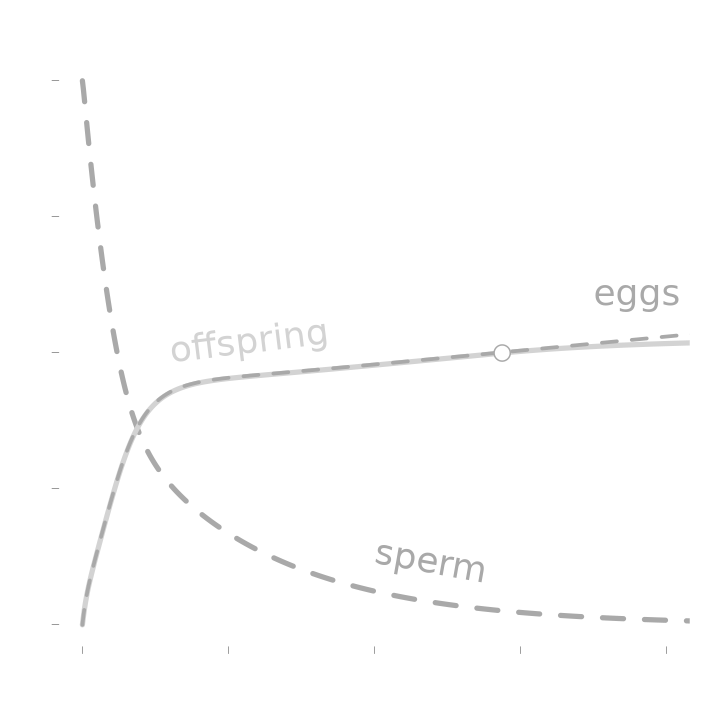
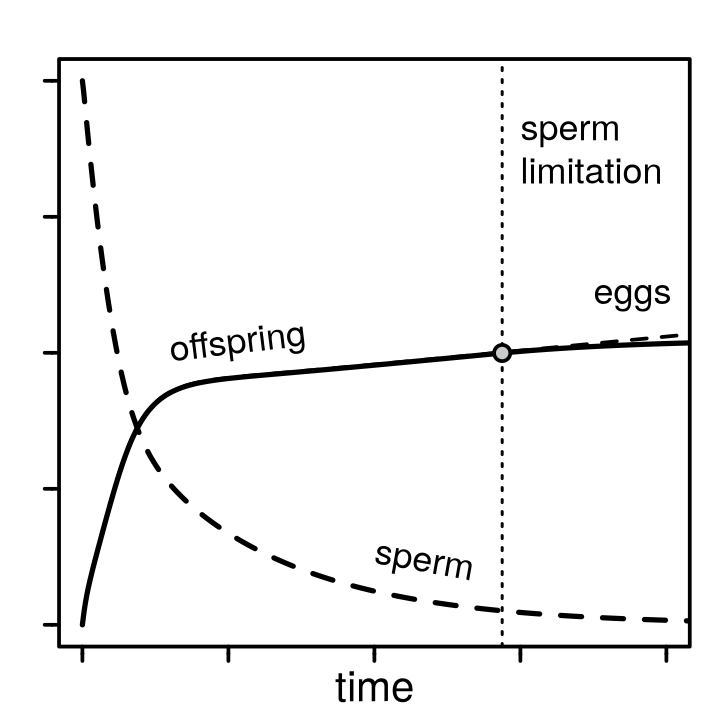
let there be light

diff --git a/ponderings/index.html b/ponderings/index.html
@@ -16,50 +16,50 @@
 <body>
   <br>
   <nav>
-    <a href="/">home</a> | <a href="/research/">research</a> | <a href="/publications/">publications</a> | <a href="/teaching/">teaching</a> | <a href="/ponderings/">ponderings</a>
+    <a class="nav" href="/">home</a> | <a class="nav" href="/research/">research</a> | <a class="nav" href="/publications/">publications</a> | <a class="nav" href="/teaching/">teaching</a> | <a class="nav" href="/ponderings/">ponderings</a>
   </nav><br>
   <h4><a href="/ponderings/">&lt;- Go back.</a></h4>
   <p class="c1">* * *</p>
-  <p><span class="c2"><strong><em>this is an unsolicited list of books I find good and/or useful, especially for people who like me like theory and evolution, and are trying to be scientists</em></strong>.</span></p>
+  <p><span class="c2"><em>this is an unsolicited list of books I find good and/or useful, especially for people who like me like theory and evolution, and are trying to be scientists</em>.</span></p>
   <p class="c1">* * *</p>
-  <h3 id="modelling-and-theory">Modelling and theory</h3>
+  <h3 id="modelling-and-theory">modelling and theory</h3>
   <p class="c1">* * *</p>
-  <h4 id="statistical-rethinking-by-richard-mcelreath-2020"><strong><em><a href="https://xcelab.net/rm/">Statistical Rethinking</a></em></strong> by Richard McElreath, 2020</h4>
+  <h4 id="statistical-rethinking-by-richard-mcelreath-2020"><em><a href="https://xcelab.net/rm/">Statistical Rethinking</a></em> by Richard McElreath, 2020</h4>
   <p>Bayesian methods used to be all the rage, but although well explained here, it’s not the point of the book. The point is, statistical tests are not black box tools to be applied using some decision tree. Science is complicated and our analysis should reflect as much of what we know as possible. If you want to understand what you are doing when you’re analyzing your data, this is a great book to go to. Especially if you are an early graduate student who still feels like they don’t understand statistics, this will give you background to engage with those models. And maybe tempt you to write your own. Oh, and there are <a href="https://www.youtube.com/watch?v=FdnMWdICdRs&amp;list=PLDcUM9US4XdPz-KxHM4XHt7uUVGWWVSus">free videos</a> connected to the course by the author.</p>
-  <h4 id="mathematical-models-of-social-evolution-by-richard-mcelreath-and-robert-boyd-2007"><strong><em><a href="https://press.uchicago.edu/ucp/books/book/chicago/M/bo4343149.html">Mathematical Models of Social Evolution</a></em></strong> by Richard McElreath and Robert Boyd, 2007</h4>
+  <h4 id="mathematical-models-of-social-evolution-by-richard-mcelreath-and-robert-boyd-2007"><em><a href="https://press.uchicago.edu/ucp/books/book/chicago/M/bo4343149.html">Mathematical Models of Social Evolution</a></em> by Richard McElreath and Robert Boyd, 2007</h4>
   <p>Modelling not just for social problems. But it helps if you’re interested in the topic. A nice general introduction to modelling evolution using social evolution as base. A little population genetics, a little game theory, quite a bit of evolution and a nice derivation of the Price equation. It has some typos, sometimes answers to questions are missing or the answers do not match. Needs to be read vigilantly. But for me, it was a tremendous boost of modelling confidence. It just needs a second edition.</p>
-  <h4 id="a-biologists-guide-to-mathematical-modeling-in-ecology-and-evolution-by-sarah-otto-and-troy-day-2007"><strong><em><a href="https://www.zoology.ubc.ca/biomath/">A Biologist’s Guide to Mathematical Modeling in Ecology and Evolution</a></em></strong> by Sarah Otto and Troy Day, 2007</h4>
+  <h4 id="a-biologists-guide-to-mathematical-modeling-in-ecology-and-evolution-by-sarah-otto-and-troy-day-2007"><em><a href="https://www.zoology.ubc.ca/biomath/">A Biologist’s Guide to Mathematical Modeling in Ecology and Evolution</a></em> by Sarah Otto and Troy Day, 2007</h4>
   <p>One of those books I was always recommended - and for good reason. It tells you how to construct the model - how to graph it, trace its logic before getting bogged down by equations. And presents several classic models before jumping into methods of analyzing various modelling strategies. It’s comprehensive and certainly useful. But, it’s big. It might be better seen as a reference, rather than something to read cover to cover. Especially if you just want to dabble in models.</p>
-  <h4 id="modelling-for-field-biologists-and-other-interesting-people-by-hanna-kokko-2007"><strong><em><a href="https://doi.org/10.1017/CBO9780511811388">Modelling for Field Biologists and Other Interesting People</a></em></strong> by Hanna Kokko, 2007</h4>
+  <h4 id="modelling-for-field-biologists-and-other-interesting-people-by-hanna-kokko-2007"><em><a href="https://doi.org/10.1017/CBO9780511811388">Modelling for Field Biologists and Other Interesting People</a></em> by Hanna Kokko, 2007</h4>
   <p>Hanna Kokko is both a well known theoretical biologist and a writer with a sense of humour. Each chapter is a question, followed by an approach that can be used to solve it. It reads nicely and stresses the most important part - we are trying to solve a biological problem here. It’s a great book not only for those theoretically skewed, but, as title suggests, also for those who spend some time in the sun. What you will get from this book is an important insight - “would a model help me clarify my problem”. And then you can try yourself to see what emerges. I don’t think it has been republished, but you can find second hand copies.</p>
   <p><em>Sidenote: 2007 seems to have been a good year for modelling textbooks</em></p>
-  <h4 id="evolutionary-genetics-maynard-smith-1998"><strong><em><a href="https://global.oup.com/academic/product/evolutionary-genetics-9780198502319?cc=fr&amp;lang=en&amp;">Evolutionary Genetics</a></em></strong> by John Maynard Smith, 1997</h4>
+  <h4 id="evolutionary-genetics-maynard-smith-1998"><em><a href="https://global.oup.com/academic/product/evolutionary-genetics-9780198502319?cc=fr&amp;lang=en&amp;">Evolutionary Genetics</a></em> by John Maynard Smith, 1997</h4>
   <p>I spend one summer reading this book, cover to cover. One, it's John Maynard Smith. Two, although it says "evolutionary genetics", it really feels like a set of lectures discussing evolutionary problems. Sometimes we use population genetics, sometimes game theory. Whatever is the way to tackle the problem of interest. Is it old? Yes. Is it a rewarding read that changed how I think, even in 2020s? Yes. And it can be found dirt cheap in second hand book stores.</p>
   <p class="c1">* * *</p>
-  <h3 id="mathematics">Mathematics</h3>
+  <h3 id="mathematics">mathematics</h3>
   <p class="c1">* * *</p>
-  <h4 id="calculus-made-easy-by-silvanus-p-thompson-1914---but-consider-martin-gardner-1998-updated-version"><strong><em><a href="https://www.gutenberg.org/ebooks/33283">Calculus Made Easy</a></em></strong> by Silvanus P. Thompson, 1914 - but consider Martin Gardner's 1998 updated version</h4>
+  <h4 id="calculus-made-easy-by-silvanus-p-thompson-1914---but-consider-martin-gardner-1998-updated-version"><em><a href="https://www.gutenberg.org/ebooks/33283">Calculus Made Easy</a></em> by Silvanus P. Thompson, 1914 - but consider Martin Gardner's 1998 updated version</h4>
   <p>This one can be somewhat controversial. And mathematicians might sneer at it. That said… if you are terrified by a derivative, this book will fix it. You’ll be hunting for infinitesimals and have fun with it. You might need a follow up, but whatever it is, it will not be scary anymore.</p>
-  <h4 id="introduction-to-mathematics-for-life-scientists-by-edward-batschelet-1979"><strong><em><a href="https://link.springer.com/book/10.1007/978-3-642-61869-7">Introduction to Mathematics for Life Scientists</a></em></strong> by Edward Batschelet, 1979</h4>
+  <h4 id="introduction-to-mathematics-for-life-scientists-by-edward-batschelet-1979"><em><a href="https://link.springer.com/book/10.1007/978-3-642-61869-7">Introduction to Mathematics for Life Scientists</a></em> by Edward Batschelet, 1979</h4>
   <p>A little gem. Well, relatively little - it is still 600 pages. But it is a one stop book if you are a biologist unsure of their mathematics. It might not replace a specialized textbook, but will give you most of the tools needed to understand those “mathy” papers. From real numbers to differential equations, probability, and linear algebra. Just make sure to get the third edition - the earlier ones were published before SI units were a thing.</p>
   <p class="c1">* * *</p>
-  <h3 id="programming">Programming</h3>
+  <h3 id="programming">programming</h3>
   <p class="c1">* * *</p>
-  <h4 id="learn-c-website"><strong><em><a href="https://www.learncpp.com/">Learn C++ website</a></em></strong></h4>
+  <h4 id="learn-c-website"><em><a href="https://www.learncpp.com/">Learn C++ website</a></em></h4>
   <p>Made by a self described “dude” named Alex, it’s a great introduction to using C++ as a general programming language. It will not teach you how to do scientific programming with it, but if you’re curious about going beyond R or Python, this is a great place to start.</p>
-  <h4 id="the-linux-command-line-by-william-shotts"><strong><em><a href="https://www.linuxcommand.org/tlcl.php">The Linux Command Line</a></em></strong> by William Shotts</h4>
+  <h4 id="the-linux-command-line-by-william-shotts"><em><a href="https://www.linuxcommand.org/tlcl.php">The Linux Command Line</a></em> by William Shotts</h4>
   <p>As a scientist working with computers, you might need to touch the command line and deal with Linux - either for your own convenience or because some server/cluster requires it. Then, you need to grasp some <em>bash</em> and command line tools. Here is a great book to get you up to speed with how this whole thing works - if you need vim, awk, grep or pipe your results to file. And the best thing is - the PDF is freely distributed by the author.</p>
-  <h4 id="art-of-r-programming-by-norman-matloff-2011"><strong><em><a href="https://nostarch.com/artofr.htm">Art of R Programming</a></em></strong> by Norman Matloff, 2011</h4>
+  <h4 id="art-of-r-programming-by-norman-matloff-2011"><em><a href="https://nostarch.com/artofr.htm">Art of R Programming</a></em> by Norman Matloff, 2011</h4>
   <p>I don’t remember when I learned R. I had a statistics class during my bachelor from which I remember little, a quick R intro for the master. I think it was really only when I had to analyse my master experiments that I learned - on the “need to know” basis. But if I was to start again, I think I would start with this book. I have it near my desk for when I’m unsure about some technical detail. It even has chapters on debugging, enhancing R with C++, and parallel computation. So, if you can get the book somewhere, without ruining your wallet, I’d recommend. Author also has a free online tutorial, called <a href="https://github.com/matloff/fasteR">fasteR</a>. If you’re just starting with R, it might be a good place to begin. <em>A small note</em>: it doesn’t teach <em>ggplot2</em> or the fashionable <em>tidyverse</em>. While these days, whenever possible, I avoid those, its just a personal preference and you might need them. Or your supervisor uses them. Or co-authors. In any case, if so, you might want to check out Wickham <em>et al.</em> <a href="https://r4ds.hadley.nz/">R for Data Science</a> and <a href="https://ggplot2-book.org/">ggplot2: Elegant Graphics for Data Analysis</a>. They are good if you’ve been strong-armed.</p>
   <p class="c1">* * *</p>
-  <h3 id="general-science">General science</h3>
+  <h3 id="general-science">general science</h3>
   <p class="c1">* * *</p>
-  <h4 id="the-elements-of-graphing-data-by-william-s-cleveland-1985"><strong><em>The Elements of Graphing Data</em></strong> by William S. Cleveland, 1985</h4>
+  <h4 id="the-elements-of-graphing-data-by-william-s-cleveland-1985"><em>The Elements of Graphing Data</em> by William S. Cleveland, 1985</h4>
   <p>This is another a bit old, but an interesting one. It comes just from around the time of transit towards computer generated graphs. The book spells out the logic and principles behind what makes for a readable graph. Author clearly is focused on research data and, I think, for a scientist it is more useful than the famous Tufte’s books. Also, R users might notice that the graphs look quite familiar. Cleveland was a part of the group working at Bell Labs designing graphics for the S language, R’s predecessor. As such, the book gives a logic behind the design of the R plots - and just might make you appreciate some of the default settings. But, if you hate R graphs, maybe not the obvious choice.</p>
   <p class="c1">* * *</p>
-  <h3 id="writing">Writing</h3>
+  <h3 id="writing">writing</h3>
   <p class="c1">* * *</p>
-  <h4 id="writing-down-the-bones-by-nathalie-goldberg-1986"><strong><em><a href="https://nataliegoldberg.com/books/writing-down-the-bones/">Writing Down the Bones</a></em></strong> by Natalie Goldberg, 1986</h4>
+  <h4 id="writing-down-the-bones-by-nathalie-goldberg-1986"><em><a href="https://nataliegoldberg.com/books/writing-down-the-bones/">Writing Down the Bones</a></em> by Natalie Goldberg, 1986</h4>
   <p>You probably know Strunk and White’s <a href="https://gutenberg.org/ebooks/37134"><em>Elements of Style</em></a> and I don’t think anybody disagrees that its one of the best. It’s clear, witty, and makes sure you write in a way that’s clear, understandable, and mostly correct. But it will not tell you what to write. And if, like me, you stare at a blank page and don’t know where to start - this is the book. It might seem not directly relevant to a scientific writing, but it is aimed at writers of all sorts. It is the book that made me enjoy writing the papers again. It is scientific <em>communication</em> after all. The book came too late to help with my thesis, but it might come early enough for yours.</p>
 </body>
 

diff --git a/publications/index.html b/publications/index.html
@@ -11,15 +11,15 @@
 <body>
   <br>
   <nav>
-    <a href="/">home</a> | <a href="/research/">research</a> | <a href="/publications/">publications</a> | <a href="/teaching/">teaching</a> | <a href="/ponderings/">ponderings</a>
+    <a class="nav" href="/">home</a> | <a class="nav" href="/research/">research</a> | <a class="nav" href="/publications/">publications</a> | <a class="nav" href="/teaching/">teaching</a> | <a class="nav" href="/ponderings/">ponderings</a>
   </nav><br>
   <h3>Preprints and work in progress</h3>
   <ul>
     <li>
-      <p><strong>Michalak, P.</strong>, Duneau, D., & Ferdy, J.-B. 2026. Sperm wars: seminal fluid proteins, digital flies, and the search for sexual conflict. <em>work in progress.</em></p>
+      <p><span class="name">Michalak, P.</span>, Duneau, D., & Ferdy, J.-B. 2026. Sperm wars: seminal fluid proteins, digital flies, and the search for sexual conflict. <span style="font-style: italic">work in progress.</span></p>
     </li>
     <li>
-      <p><strong>Michalak, P.</strong>, Duneau, D., & Ferdy, J.-B. 2026. Seminal fluid proteins can mitigate sexual conflict: the case of remating in insects. Submitted, currently under revision. <a href="https://doi.org/10.64898/2026.02.27.708467">doi: 10.64898/2026.02.27.708467</a> | <a href="https://doi.org/10.5281/zenodo.18834199">code</a></p>
+      <p><span class="name">Michalak, P.</span>, Duneau, D., & Ferdy, J.-B. 2026. Seminal fluid proteins can mitigate sexual conflict: the case of remating in insects. Submitted, currently under revision. <a href="https://doi.org/10.64898/2026.02.27.708467">doi: 10.64898/2026.02.27.708467</a> | <a href="https://doi.org/10.5281/zenodo.18834199">code</a></p>
 
       <p class="csmall">If females can use seminal proteins to guide their reproduction, what are the consequences? One we argue is that it allows them to be more selective and provides a buffer when mating opportunities are scarce.</p>
     </li>
@@ -27,20 +27,20 @@
   <h3>Papers</h3>
   <ul>
     <li>
-      <p><strong>Michalak, P.</strong>, Ferdy, J.-B., & Duneau, D. 2026. The role of fecundity dynamics and time of injury for female reproductive fitness. Royal Society Open Science, 13(4):252317. <a href="https://doi.org/10.1098/rsos.252317">doi.org/10.1098/rsos.252317</a></p>
+      <p><span class="name">Michalak, P.</span>, Ferdy, J.-B., & Duneau, D. 2026. The role of fecundity dynamics and time of injury for female reproductive fitness. Royal Society Open Science, 13(4):252317. <a href="https://doi.org/10.1098/rsos.252317">doi.org/10.1098/rsos.252317</a></p>
       <p class="csmall">If females vary in their reproduction over time, there should be periods when their reproduction is more vulnerable. Alas, in the experiments I ran, not really. Strange...</p>
     </li>
     <li>
-      <p><strong>Michalak, P.</strong>, Duneau, D., & Ferdy, J.-B. 2026. Seminal fluid proteins as regulation factors for optimizing reproduction: a modeling approach. The American Naturalist, 208(1):83–100 <a href="https://doi.org/10.1086/740809">doi: 10.1086/740809</a> | <a href="https://doi.org/10.5281/zenodo.17709886">code</a></p>
+      <p><span class="name">Michalak, P.</span>, Duneau, D., & Ferdy, J.-B. 2026. Seminal fluid proteins as regulation factors for optimizing reproduction: a modeling approach. The American Naturalist, 208(1):83–100 <a href="https://doi.org/10.1086/740809">doi: 10.1086/740809</a> | <a href="https://doi.org/10.5281/zenodo.17709886">code</a></p>
       <p class="csmall">In the past few years I focused on the evolution of seminal fluid proteins. Those proteins are provided by males to females during mating in many animal species. They became a poster example of traits males use to manipulate females and evolving primarily under sexual conflict. Yet, the work we did, and the models we created in the above papers, suggests that under some circumstances, those proteins are rather beneficial to females and allow for adjusting their reproduction.</p>
     </li>
     <li>
-      <p>Baur, J., Jagusch, D., <strong>Michalak, P.</strong>, Koppik, M., & Berger, D. 2022. The mating system affects the temperature sensitivity of male and female fertility. Functional Ecology, 36, 92–106. <a href="https://doi.org/10.1111/1365-2435.13952">doi: 10.1111/1365-2435.13952</a></p>
+      <p>Baur, J., Jagusch, D., <span class="name">Michalak, P.</span>, Koppik, M., & Berger, D. 2022. The mating system affects the temperature sensitivity of male and female fertility. Functional Ecology, 36, 92–106. <a href="https://doi.org/10.1111/1365-2435.13952">doi: 10.1111/1365-2435.13952</a></p>
     </li>
   </ul>
   <h3>Misc</h3>
   <ul>
-    <li>PhD thesis: <a href="https://hal.science/tel-05023183/">Regulation of reproductive physiology and sexual conflict : a modelling approach in Drosophila melanogaster</a>
+    <li><span style="font-variant-caps: small-caps;">PhD</span> thesis: <a href="https://hal.science/tel-05023183/">Regulation of reproductive physiology and sexual conflict : a modelling approach in Drosophila melanogaster</a>
     </li>
   </ul>
   <p class="c1">* * *</p>

diff --git a/research/index.html b/research/index.html
@@ -11,17 +11,17 @@
 <body>
   <br>
   <nav>
-    <a href="/">home</a> | <a href="/research/">research</a> | <a href="/publications/">publications</a> | <a href="/teaching/">teaching</a> | <a href="/ponderings/">ponderings</a>
+    <a class="nav" href="/">home</a> | <a class="nav" href="/research/">research</a> | <a class="nav" href="/publications/">publications</a> | <a class="nav" href="/teaching/">teaching</a> | <a class="nav" href="/ponderings/">ponderings</a>
   </nav>
   <br>
   <p>How do animals choose their mates? What signals do they use?<br> When are males and females expected to cooperate, and when should they be at each other's throats?<br> How does each sex protect their own interests?<br> And why bother with all this in the first place?</p>
 
-  <p>I am interested in how ecological and evolutionary processes shape the bizarre world of <strong>sex and sexual interactions</strong>. I use mainly the tools of <strong>mathematical modelling</strong> and computer simulations to get to the underlying theory that can account for the patterns we observe. </p>
+  <p>I am interested in how ecological and evolutionary processes shape the bizarre world of <em>sex and sexual interactions</em>. I use mainly the tools of <em>mathematical modelling</em> and computer simulations to get to the underlying theory that can account for the patterns we observe. </p>
 
-  <img src="fig1.png", style="max-width: 30ch; display: block;float: right;"> </img>
+  <img src="fig1.png", style="max-width:30ch; display:block; float:right;"> </img>
 
-  <p>In the past few years I focused on the problem of <strong>sexual conflict</strong> and post-mating <strong>sexual selection</strong>. Primarily, the conflict over the action of seminal fluid proteins. Those proteins are provided by males to females during mating in <em>Drosophila</em> and many (most?) animal species. Since 1995 at least, they have been a poster example of traits that males use to manipulate females. Yet more recently, people argue that the reality might not be so simple. The work we did (with <a href="https://david-duneau.netlify.app">David Duneau</a> and <a href="https://crbe.cnrs.fr/annuaire/ferdy/">Jean-Baptiste Ferdy</a>), and the models we created, suggest that those proteins can act as cues or signals and could be rather beneficial to females, thus providing us with an amazing example of post-mating sexual signal.</p>
-
+  <p>In the past few years I focused on the problem of <em>sexual conflict</em> and post-mating <em>sexual selection</em>. Primarily, the conflict over the action of seminal fluid proteins. Those proteins are provided by males to females during mating in <em>Drosophila</em> and many (most?) animal species. Since 1995 at least, they have been a poster example of traits that males use to manipulate females. Yet more recently, people argue that the reality might not be so simple. The work we did (with <a href="https://david-duneau.netlify.app">David Duneau</a> and <a href="https://crbe.cnrs.fr/annuaire/ferdy/">Jean-Baptiste Ferdy</a>), and the models we created, suggest that those proteins can act as cues or signals and could be rather beneficial to females, thus providing us with an amazing example of post-mating sexual signal.</p>
+<br>
   <p class="c1">* * *</p>
 
   <h3>About me</h3>

diff --git a/index.html b/index.html
@@ -11,26 +11,26 @@
 <body>
   <br>
   <nav>
-    <a href="/">home</a> | <a href="/research/">research</a> | <a href="/publications/">publications</a> | <a href="/teaching/">teaching</a> | <a href="/ponderings/">ponderings</a>
+    <a class="nav" href="/">home</a> | <a class="nav" href="/research/">research</a> | <a class="nav" href="/publications/">publications</a> | <a class="nav" href="/teaching/">teaching</a> | <a class="nav" href="/ponderings/">ponderings</a>
   </nav><br>
   <h1>Piotr Michalak</h1>
   <h2>theoretical evolutionary ecology, sexual selection, sexual conflict</h2>
   <p class="c1">* * *</p>
   <p>Hello!</p>
   <p>My name is Piotr and I am an evolutionary biologist, currently working at the University of Toulouse.</p>
-  <p>On this website, you can find information about <a href="research/"><strong>my research</strong></a> (and a bit of my background), including the list of my <a href="publications/"><strong>publications</strong></a>. Also, additional information on the <a href="teaching/"><strong>current teaching</strong></a>. I also put here some <a href="ponderings/"><strong>ponderings</strong></a> on books.</p>
+  <p>On this website, you can find information about <a href="research/"><em>my research</em></a> (and a bit of my background), including the list of my <a href="publications/"><em>publications</em></a>. Also, additional information on the <a href="teaching/"><em>current teaching</em></a>. I also put here some <a href="ponderings/"><em>ponderings</em></a> on books.</p>
   <p>Thank you for stopping by, and I hope you have a great day!</p>
   <p class="c4">Piotr</p>
   <p class="c1">* * *</p>
 
-  <h3>Contact:</h3><a href="mailto:piotr.michalak1@utoulouse.fr"><strong>piotr.michalak1@utoulouse.fr</strong></a><br>
+  <h3>Contact:</h3><a href="mailto:piotr.michalak1@utoulouse.fr"><em>piotr.michalak1@utoulouse.fr</em></a><br>
   <br>
 
-  <strong>Centre de Recherche sur la Biodiversité et l'Environnement (<a href="https://crbe.cnrs.fr/en/">CRBE</a>)</strong><br>
+  <em>Centre de Recherche sur la Biodiversité et l'Environnement (<a href="https://crbe.cnrs.fr/en/">CRBE</a>)</em><br>
   UMR 5300, Université de Toulouse, Toulouse INP, CNRS, IRD<br>
   Toulouse, France<br>
   <br>
-  <span><strong>Links:</strong> <a href="https://scholar.google.com/citations?user=7YshGG8AAAAJ">Google Scholar</a>, <a href="https://orcid.org/0009-0003-3106-2511">ORCID</a></span>
+  <span><em>Links:</em> <a href="https://scholar.google.com/citations?user=7YshGG8AAAAJ">Google Scholar</a>, <a href="https://orcid.org/0009-0003-3106-2511">ORCID</a></span>
   <p class="c1">* * *</p>
 </body>
 

diff --git a/styles.css b/styles.css
@@ -1,37 +1,37 @@
 body {
-  background-color: #020000;
-  color: #F7FAF7;
+  background-color:#c9cbca;
+  color:#111216;
   font-family: "Georgia", "Libre Baskervvile", serif, "DejaVu Sans", sans-serif;
-  max-width: 120ch;
+  max-width: 100ch;
   margin: 0 auto;
   font-size: 16px;
-}
 
+}
 h1 {
   line-height: 1.2;
   font-variant-caps: small-caps;
   font-size: 24px;
   text-align: center;
+  font-weight:500;
 }
 
-h2 {
+h2, h3 {
   line-height: 1.2;
   font-variant-caps: small-caps;
   text-align: center;
   font-size: 18px;
-}
-
-h3 {
-  font-variant-caps: small-caps;
-  text-align: center;
-  line-height: 1.2;
-  font-size: 18px;
+  font-weight:500;
 }
 
 h4 {
   text-align: center;
   line-height: 1.2;
   font-size: 16px;
+  font-weight:500;
+  font-style: italic;
+  letter-spacing: 0.05em;
+
+
 }
 
 h5 {
@@ -39,6 +39,7 @@ h5 {
   text-align: left;
   line-height: 1.2;
   font-size: 16px;
+  font-weight:500;
 }
 
 p {
@@ -47,25 +48,22 @@ p {
 
 p.c1 {
   text-align: center;
-  font-weight: 700;
 }
 
 p.c2 {
   text-align: center;
   font-size: 22px;
-  font-weight: 800;
 }
 
 p.c3 {
   font-variant-caps: small-caps;
   text-align: center;
   font-size: 16px;
-  font-weight: 600;
 }
 
 p.c4 {
   text-align: right;
-  max-width: 50ch;
+  max-width: 53ch;
 }
 
 p.c5 {
@@ -89,7 +87,22 @@ div.rsmall {
 
 a {
   text-decoration: none;
-  color: #bdddb3;
+  font-weight: 500;
+  color:#606b6a;
+}
+
+a:hover {
+  text-decoration: underline;
+}
+
+a.nav{
+  color:#111216;
+}
+
+span.name{
+  font-style: italic;
+  letter-spacing: 0.05em;
+
 }
 
 td {
@@ -105,16 +118,6 @@ td.ndash {
   padding-bottom: 5px;
   text-align: center;
   font-size: 16px;
-
-}
-
-a:active {
-  color: #F2F1C4;
-}
-
-a:hover {
-  text-decoration: underline;
-  color: #F2F1C4;
 
 }
 

diff --git a/teaching/index.html b/teaching/index.html
@@ -11,9 +11,9 @@
 <body>
   <br>
   <nav>
-    <a href="/">home</a> | <a href="/research/">research</a> | <a href="/publications/">publications</a> | <a href="/teaching/">teaching</a> | <a href="/ponderings/">ponderings</a>
+    <a class="nav" href="/">home</a> | <a class="nav" href="/research/">research</a> | <a class="nav" href="/publications/">publications</a> | <a class="nav" href="/teaching/">teaching</a> | <a class="nav" href="/ponderings/">ponderings</a>
   </nav><br>
-  <h3 style="text-align:center;">Courses 2026/2027</h3>
+  <h3 style="text-align:center;">courses 2026/2027</h3>
   <p>At the University of Toulouse I contribute to teaching in several topics in ecology and evolution.</p>
   <ul>
     <li>population dynamics</li>
@@ -29,7 +29,7 @@
       <li>Introduction to concepts of population dynamics -&gt; lecture notes <em>(soon)</em></li>
     </ul>
   </ul><br>
-  <h3>Student projects</h3>
+  <h3>student projects</h3>
   <p>As a temporary staff, I do not have student projects to offer. Projects can also get delayed, analysis and writing postponed, and in such case, you should have someone permanent at the university you can reach out to.</p>
   <p><strong>However</strong>. I am always happy to discuss your project ideas. I can also offer support in finding a staff member interested in co-supervision of a shared project. So, if you are interested in the evolution of sex, mating, sexual selection, modelling, or social behaviour in general feel free to reach out!</p>
   <p class="c1">* * *</p>
